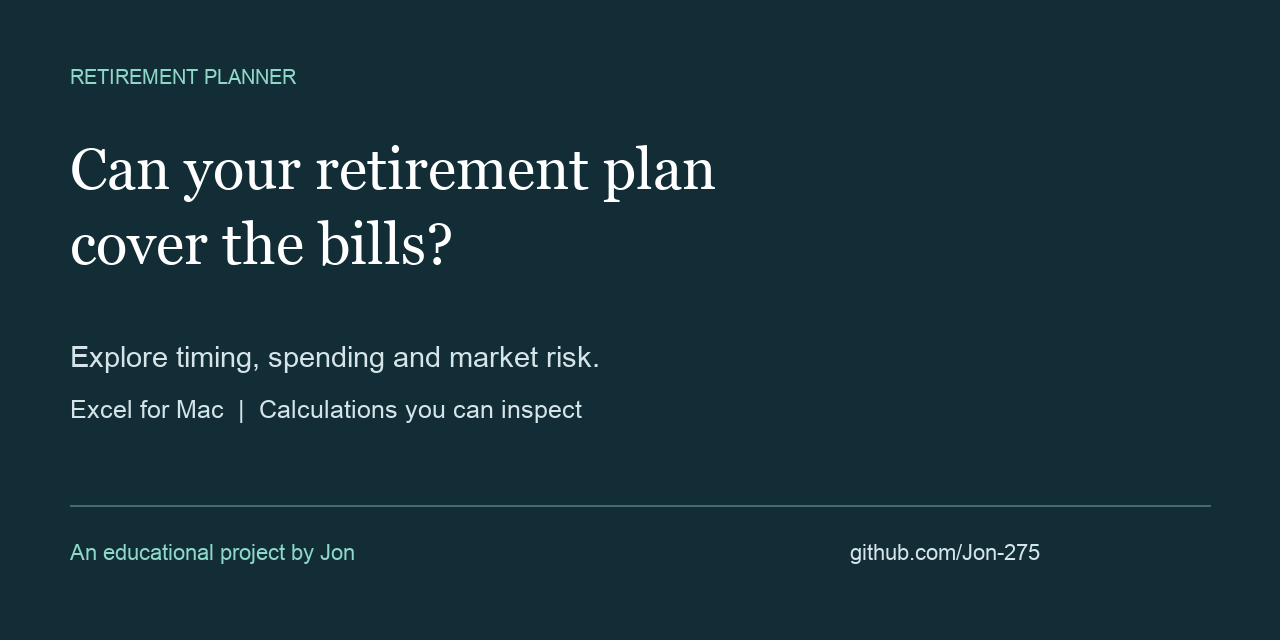
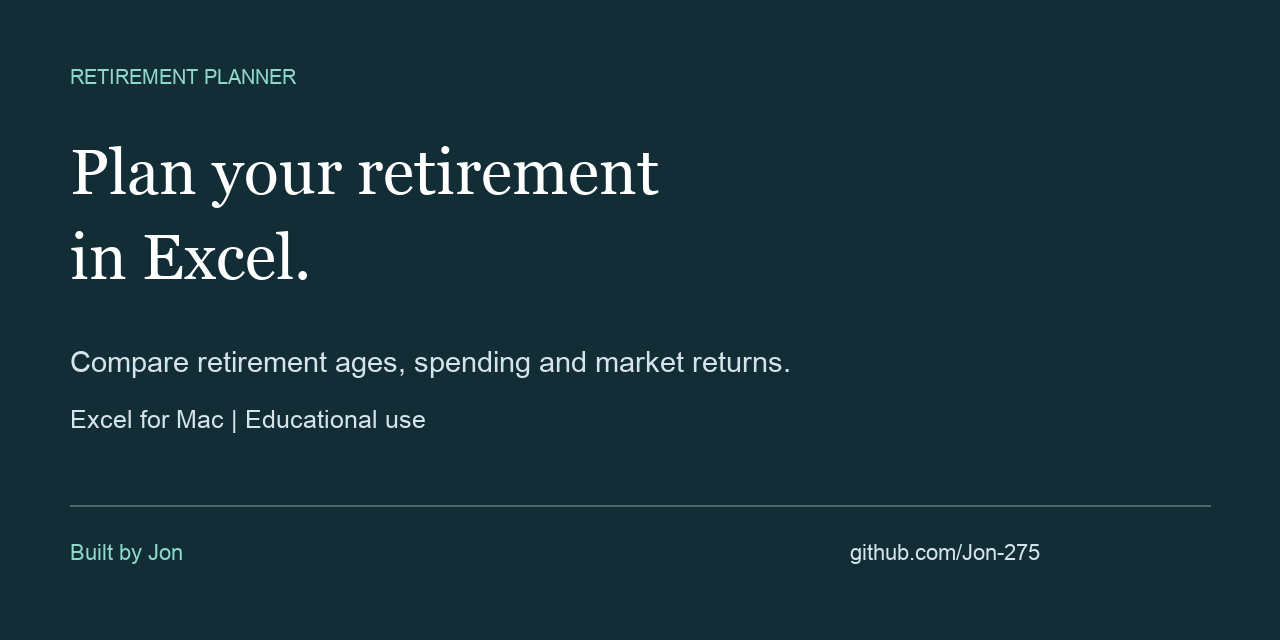
Use plain language and let Pages deployments finish

diff --git a/site/index.html b/site/index.html
@@ -3,10 +3,10 @@
   <head>
     <meta charset="utf-8">
     <meta name="viewport" content="width=device-width, initial-scale=1">
-    <title>Retirement planner — explore your next chapter</title>
-    <meta name="description" content="Explore retirement timing, spending and market risk in an inspectable Excel planner. Preview a fictional report, then try the guided example in Excel for Mac.">
-    <meta property="og:title" content="Can your retirement plan cover the bills?">
-    <meta property="og:description" content="An inspectable Excel retirement planner. Explore the report before you download.">
+    <title>Retirement planner | Excel for Mac</title>
+    <meta name="description" content="Plan retirement spending, taxes and market risk in Excel for Mac. View an example report and try the workbook with fictional figures.">
+    <meta property="og:title" content="Plan your retirement in Excel">
+    <meta property="og:description" content="Compare retirement ages, spending and market returns. View the example report before downloading.">
     <meta property="og:type" content="website">
     <meta property="og:image" content="https://jon-275.github.io/financial-model/assets/social-preview.png">
     <meta name="theme-color" content="#122d36">
@@ -21,16 +21,16 @@
       <nav aria-label="Main navigation">
         <a href="#report">The report</a>
         <a href="#start">Get started</a>
-        <a href="https://github.com/Jon-275/financial-model/blob/main/docs/case-study.md">How it’s built</a>
+        <a href="https://github.com/Jon-275/financial-model/blob/main/docs/case-study.md">About the project</a>
         <a href="https://github.com/Jon-275/financial-model">GitHub</a>
       </nav>
     </header>
     <main id="main">
       <section class="hero wrap">
         <div class="hero-copy">
-          <p class="eyebrow">Your next chapter, in perspective</p>
-          <h1>Can your retirement plan cover the bills?</h1>
-          <p class="lead">Explore retirement timing, spending and changing markets in an Excel planner with calculations you can inspect.</p>
+          <p class="eyebrow">Retirement planner for Excel</p>
+          <h1>Plan your retirement in Excel.</h1>
+          <p class="lead">See whether income and savings can cover spending and taxes. Compare retirement ages, budgets and market returns.</p>
           <div class="actions">
             <a class="button primary" href="downloads/retirement-model.xlsm" download>Download for Excel for Mac</a>
             <a class="button secondary" href="downloads/retirement-plan-example.pdf">Preview the report</a>
@@ -40,34 +40,34 @@
         </div>
         <figure class="hero-report">
           <div class="report-label">
-            <span>Inside the example</span>
+            <span>Example report</span>
             <span>Actual report · fictional figures</span>
           </div>
           <a href="downloads/retirement-plan-example.pdf" aria-label="Open the complete fictional example report">
             <img src="assets/summary.png" width="1160" height="1500" alt="Example Summary report: retirement outlook, assumptions and range of simulated portfolio balances">
           </a>
-          <figcaption>See the outcome, the assumptions and the uncertainty.</figcaption>
+          <figcaption>Results and assumptions in one report.</figcaption>
         </figure>
       </section>
       <section class="questions">
         <div class="wrap">
-          <p class="eyebrow">Start with a decision</p>
-          <h2>Put the questions that matter<br>into the same plan.</h2>
+          <p class="eyebrow">What you can test</p>
+          <h2>Compare the choices in your plan.</h2>
           <div class="question-grid">
             <article>
               <span class="rule"></span>
               <h3>Could I retire later?</h3>
-              <p>Compare three scenarios and follow how income and accessible savings cover each year’s bills.</p>
+              <p>Compare three scenarios. See how income and available savings pay each year’s bills.</p>
             </article>
             <article>
               <span class="rule"></span>
               <h3>What if spending changes?</h3>
-              <p>Test a different budget, then compare fixed spending with temporary cuts under the same market conditions.</p>
+              <p>Change the budget. Test fixed spending and temporary cuts under the same market conditions.</p>
             </article>
             <article>
               <span class="rule"></span>
               <h3>What could put it at risk?</h3>
-              <p>Review market paths, inflation, longer retirement and medical-budget tests alongside the first shortfall year.</p>
+              <p>Test market losses, higher inflation, a longer retirement and higher medical costs.</p>
             </article>
           </div>
         </div>
@@ -75,10 +75,10 @@
       <section id="report" class="wrap section">
         <div class="section-heading">
           <div>
-            <p class="eyebrow">A report you can follow</p>
-            <h2>Understand what’s<br>behind the result.</h2>
+            <p class="eyebrow">See the results</p>
+            <h2>Read the plan and its assumptions.</h2>
           </div>
-          <p>The six-page Summary records your decisions alongside the forecast. These are pages from the published fictional example, not promises about your own plan.</p>
+          <p>The six-page report includes results, risks and the inputs used. These previews use fictional figures.</p>
         </div>
         <div class="report-grid">
           <figure>
@@ -86,8 +86,8 @@
               <img loading="lazy" src="assets/market-risk.png" width="1160" height="1500" alt="Report page comparing low, median and high market paths, spending cuts and early stock losses">
             </a>
             <figcaption>
-              <h3>Read risk in context.</h3>
-              <p>Compare funding paths and spending cuts together. A success rate alone does not tell the whole story.</p>
+              <h3>Compare market outcomes.</h3>
+              <p>Check when bills go unpaid and how often spending cuts are needed. Read these alongside the success rate.</p>
             </figcaption>
           </figure>
           <figure>
@@ -95,8 +95,8 @@
               <img loading="lazy" src="assets/input-decisions.png" width="1160" height="1500" alt="Input decision record showing fictional timeline, income, savings and account access assumptions">
             </a>
             <figcaption>
-              <h3>Keep the assumptions close.</h3>
-              <p>The input decision record makes it easier to review which figures produced a result. This is a report page; editing happens on Inputs.</p>
+              <h3>Review the inputs.</h3>
+              <p>The report lists the figures behind the results. You edit them on the workbook’s Inputs sheet.</p>
             </figcaption>
           </figure>
         </div>
@@ -105,9 +105,9 @@
       <section id="start" class="start section">
         <div class="wrap start-layout">
           <div>
-            <p class="eyebrow">Make your first comparison</p>
-            <h2>Try the example.<br>Change one thing.</h2>
-            <p class="lead">Learn the workflow with fictional figures before entering your own household information.</p>
+            <p class="eyebrow">Get started</p>
+            <h2>Try the example first.</h2>
+            <p class="lead">Use fictional figures to learn the workbook. Then save a separate copy for your own plan.</p>
             <a class="button primary" href="https://github.com/Jon-275/financial-model/blob/main/docs/getting-started.md">Follow the guided example</a>
           </div>
           <ol class="steps">
@@ -132,9 +132,9 @@
       </section>
       <section id="compatibility" class="wrap section compatibility">
         <div>
-          <p class="eyebrow">Before you download</p>
-          <h2>A clear fit<br>for your setup.</h2>
-          <p>Use the guide to understand what the planner covers and where you need a separate estimate.</p>
+          <p class="eyebrow">Excel for Mac</p>
+          <h2>Check before you download.</h2>
+          <p>Read what the planner covers and which items need a separate estimate.</p>
           <a class="text-link" href="https://github.com/Jon-275/financial-model/blob/main/docs/model-guide.md#items-to-estimate-separately">Read the full scope and limits</a>
         </div>
         <div class="faq">
@@ -164,15 +164,15 @@
         <div class="wrap builder-layout">
           <div>
             <p class="eyebrow">About the project</p>
-            <h2>Built to be inspected.</h2>
-            <p>Created by Jon. Python builds the workbook, visible Excel schedules calculate the plan, and VBA coordinates the market trials. The engineering case study explains the design choices, validation process and tradeoffs.</p>
+            <h2>How I built it</h2>
+            <p>I’m Jon. I built the workbook with Python, Excel formulas and VBA. Read about the design choices, checks and limits.</p>
           </div>
-          <a class="button secondary" href="https://github.com/Jon-275/financial-model/blob/main/docs/case-study.md">Read the engineering case study</a>
+          <a class="button secondary" href="https://github.com/Jon-275/financial-model/blob/main/docs/case-study.md">Read about the project</a>
         </div>
       </section>
       <section class="wrap final-cta">
-        <h2>Explore your next decision.</h2>
-        <p>Start with the fictional example and see how the planner works.</p>
+        <h2>Try the retirement planner.</h2>
+        <p>Download the workbook and start with the example.</p>
         <div class="actions">
           <a class="button primary" href="downloads/retirement-model.xlsm" download>Download for Excel for Mac</a>
           <a class="text-link" href="https://github.com/Jon-275/financial-model/releases">Versions and release notes</a>

diff --git a/docs/case-study.md b/docs/case-study.md
@@ -1,42 +1,40 @@
-# Building an inspectable retirement planner
+# How I built the retirement planner
 
-A project by [Jon](https://github.com/Jon-275). [Try the planner](getting-started.md) · [See a fictional report](examples/retirement-plan-example.pdf) · [Browse the source](https://github.com/Jon-275/financial-model)
+By [Jon](https://github.com/Jon-275). [Try the example](getting-started.md) · [View the report](examples/retirement-plan-example.pdf) · [Browse the code](https://github.com/Jon-275/financial-model)
 
-## The problem
+## What I wanted to solve
 
-A retirement forecast needs to explain more than a final account balance. Income can arrive after bills are due, some savings may be inaccessible and changing withdrawals can change taxes and healthcare costs. A useful model needs to expose those interactions and make its assumptions reviewable.
+A retirement plan needs to show whether you can pay each year's bills. A final balance can hide problems: income may start too late, savings may be unavailable, or withdrawals may raise taxes and healthcare costs.
 
-## The implementation
+I built an Excel planner that shows those details. Users can compare three scenarios, test market returns and save a six-page report with the inputs behind it.
 
-This repository contains the workbook-generation pipeline, Excel schedules, VBA market-risk runner, documentation and acceptance checks. The deliverable is a macro-enabled workbook for desktop Excel for Mac, with a six-page Summary and annual calculation schedules.
+## How it works
 
-The project demonstrates financial-model implementation, Python tooling, VBA orchestration, report design and automated validation. The source and commit history show the implementation work; this case study does not claim independently measured user adoption or business impact.
+Python builds the workbook from source files. Visible Excel formulas calculate income, spending, taxes, withdrawals and account balances. A VBA macro runs market trials through those calculations and saves the results.
 
-## Decisions and tradeoffs
-
-| Decision | Why it matters | Evidence |
+| Choice | Reason | Code or guide |
 | --- | --- | --- |
-| Keep calculations in visible Excel schedules | Users can follow income, tax, account access and unpaid costs instead of trusting a single score. | [Schedule guide](workbook-schedules.md), [formula sources](../tools/formula_sources.py) |
-| Generate the workbook with Python | Layout, formulas and packaging are maintained as source alongside the distributable workbook. | [Builder](../tools/author_model.py), [build workflow](../tools/build_model.sh) |
-| Orchestrate trials with VBA | The market analysis uses the workbook's annual calculations in desktop Excel. The tradeoff is macro permissions and runtime. | [Runner design](macro-runner.md), [VBA source](../tools/vba/RunMarketRisk.bas) |
-| Compare spending policies under paired conditions | Fixed and flexible policies face the same sampled returns and inflation. | [Risk guide](risk-analysis.md), [scenario code](../tools/risk_engine/scenario.py) |
-| Distinguish current results from stale or incomplete runs | Editing assumptions, cancelling or failing a run must not present previous figures as current evidence. | [Runner checks](../tests/test_macro_runner_contract.py), [report checks](../tests/test_report_structure.py) |
-| Publish fictional inputs and inspect workbook contents | Household information belongs in private working files. | [Privacy check](../tools/check_workbook_commit.py), [privacy tests](../tests/test_workbook_privacy.py) |
+| Keep calculation sheets visible | Users can trace a result and inspect its formulas. | [Workbook schedules](workbook-schedules.md) |
+| Build the workbook with Python | Formulas, layout and packaging can be maintained as code. | [Workbook builder](../tools/author_model.py) |
+| Run trials in desktop Excel | The market tests use the workbook's own calculations. This requires macros and takes time. | [VBA runner](../tools/vba/RunMarketRisk.bas) |
+| Use the same markets for both spending policies | Users can compare fixed spending with temporary cuts under the same conditions. | [Market tests](risk-analysis.md) |
+| Mark old results as out of date | A changed input or failed run should not leave a report that looks current. | [Runner checks](../tests/test_macro_runner_contract.py) |
+| Check published files for personal data | Public examples should contain fictional figures. | [Privacy checks](../tools/check_workbook_commit.py) |
 
-## How validation is structured
+## How I check it
 
-The repository includes model acceptance checks, scenario fixtures, financial and report tests, LibreOffice recalculation checks and a documented native Excel verification process. Native Excel checks cover opening without repair, recalculation, run cancellation and recovery, and comparison with an independent reference. These are different forms of evidence: a CI pass does not by itself establish native Excel behavior.
+The repository includes expected results for sample plans, tests for financial calculations and reports, and recalculation checks in LibreOffice. The [Excel check procedure](../tests/README.md#verify-a-changed-workbook-in-excel) covers opening the file, changing inputs, running and cancelling trials, and comparing saved results with an independent calculation.
 
-See the [validation instructions](../tests/README.md) and [CI runs](https://github.com/Jon-275/financial-model/actions/workflows/workbook-checks.yml) for the procedures and actual run results. No new financial validation is claimed by a documentation or website update.
+These checks serve different purposes. Passing CI does not prove that every Excel action works. See the [test instructions](../tests/README.md) and [CI results](https://github.com/Jon-275/financial-model/actions/workflows/workbook-checks.yml) for the evidence.
 
-## What the experience delivers
+## Example output
 
-Users can compare three input scenarios, inspect annual cash flows, run market and stress tests, and save a report that records inputs alongside results. The report below comes from the repository's fictional example.
+This report uses fictional figures.
 
-![Fictional retirement outlook with projected portfolio ranges](images/summary.png)
+![Example retirement report with projected portfolio balances](images/summary.png)
 
-## Constraints and next improvements
+## Limits and next steps
 
-The verified release target is desktop Excel for Mac. The model's tax scope is US federal and California, with joint-filer and selected survivor assumptions. Simulations use specified distributions and assumptions rather than replaying historical crises. Long runs can take minutes. [Full limits](model-guide.md#items-to-estimate-separately)
+The supported release is for desktop Excel for Mac. Tax estimates cover US federal and California rules for couples, with selected survivor assumptions. Market tests use stated assumptions rather than replaying historical crises. Longer runs can take several minutes. [Full model limits](model-guide.md#items-to-estimate-separately)
 
-A useful next evaluation would observe first-time users opening the example, changing one assumption and explaining the resulting report. Completion rate, misunderstandings and time to first useful comparison would provide evidence for further improvements. These outcomes have not yet been measured.
+Next, I would test the first-use guide with new users. Can they open the example, change one input and explain the result? I have not measured those outcomes yet.

diff --git a/README.md b/README.md
@@ -1,12 +1,12 @@
 # Retirement planner
 
-## Explore whether your retirement plan can cover the bills.
+## Plan your retirement in Excel.
 
-An Excel retirement planner for couples modeling US federal and California taxes. Compare retirement ages, spending choices and changing market returns, with calculations you can inspect.
+See whether income and savings can cover spending and taxes through retirement. Compare retirement ages, budgets and market returns. The model estimates US federal and California taxes for a couple, with an option to model a surviving spouse.
 
 **[Download for Excel for Mac](https://github.com/Jon-275/financial-model/raw/main/workbook/retirement-model.xlsm)** · **[Preview the example report](docs/examples/retirement-plan-example.pdf)** · **[Try the guided example](docs/getting-started.md)**
 
-For educational use. All published examples are fictional. Results depend on your assumptions and the model's scope; they are not a guarantee. [Scope and limits](docs/model-guide.md#items-to-estimate-separately)
+For educational use. The examples use fictional figures. Results depend on your assumptions. [Scope and limits](docs/model-guide.md#items-to-estimate-separately)
 
 <a href="docs/examples/retirement-plan-example.pdf"><img src="docs/images/summary.png" alt="Fictional example report showing the retirement outlook and a range of simulated portfolio balances" width="680"></a>
 
@@ -33,7 +33,7 @@ You do not need to install Python or clone this repository to use the workbook. 
 3. Compare the provided later-retirement or lower-spending scenario, or change one highlighted input. Review how the base result changes.
 4. When ready, review investment assumptions and choose **Run market risk**. Wait for **Risk results are current**, then print **Summary** or save it as a PDF.
 
-The [guided example](docs/getting-started.md) explains what to look for and how to recover if something does not work. Review all assumptions before entering your own figures.
+Follow the [guided example](docs/getting-started.md), then review the assumptions before entering your own figures.
 
 ## What you can explore
 
@@ -67,7 +67,7 @@ The [guided example](docs/getting-started.md) explains what to look for and how 
 
 ## About the project
 
-Created by [Jon](https://github.com/Jon-275). The project combines a Python workbook builder, visible Excel calculations and a VBA market-risk runner. Read the [engineering case study](docs/case-study.md) for design decisions, validation and limitations.
+Created by [Jon](https://github.com/Jon-275). Python builds the workbook. Excel formulas calculate the plan. A VBA macro runs the market tests. Read [how the project works](docs/case-study.md) for the design choices, checks and limits.
 
 For development, use the [build and testing instructions](tests/README.md). Review published tax figures using the [annual tax review](docs/annual-tax-review.md). [Website and release maintenance](docs/publishing.md)
 

diff --git a/docs/getting-started.md b/docs/getting-started.md
@@ -26,9 +26,9 @@ The published example begins at age 35, retires at 60 and projects through 95. I
 
 Select the later-retirement scenario on **Inputs**, then return to **Summary**. Compare retirement age, funding and when income or savings pays the bills. Next try the lower-spending scenario.
 
-For a controlled comparison, save the baseline Summary as a PDF, return to the example and change only the highlighted retirement-spending input. Review the base result again. Editing inputs makes the previous market-risk result out of date; it does not silently rerun simulations.
+To compare one change, save Summary as a PDF, return to the example and change only the highlighted retirement-spending input. Review the base result again. Editing inputs makes the previous market-risk result out of date; it does not silently rerun simulations.
 
-Do not interpret a positive ending balance alone as proof that every year's bills were paid. Account access and timing matter. [Reading the results](model-guide.md#read-the-results)
+A positive ending balance does not mean every year's bills were paid. Check when savings became available and when bills came due. [Reading the results](model-guide.md#read-the-results)
 
 ## 4. Run market risk when ready
 
@@ -36,7 +36,7 @@ Review **Asset_Allocation** and **Risk_Settings**. Use **100 paired paths** for 
 
 Excel displays progress in its status bar. Wait for **Risk results are current**. For a final report, use 1,000 pairs. The documented example took about 8 minutes at 1,000 pairs; the full age range took 33 minutes. Runtime depends on the Mac and plan. Use the workbook's **Cancel** button if needed and wait for confirmation.
 
-Read the success rate together with balance ranges, spending cuts and stress tests. It describes the simulated outcomes under your assumptions. [Market-risk interpretation](risk-analysis.md#read-the-summary)
+Read the success rate, balance range, spending cuts and stress tests together. They show what happened in the model under your assumptions. [Market-risk interpretation](risk-analysis.md#read-the-summary)
 
 ## 5. Save a report, then build your own plan
 
